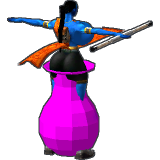
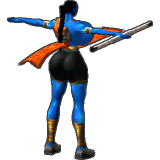
fix: booblord's base's vase is dropped from her mesh (a recipe's new mesh.drop), so her pictures no longer show her standing in a pink vase (Step 4.3 booblord vase)
Her base, town_female_2, carries a magenta vase: LOD-0 group 5 on vase_joint (202 vertices,
231 triangles, row 3's 64x64 texture), at the model's origin round her legs, which every one of
her 81 clips keys at a scale of 0 or 1e-12: it drew only in her bind pose, the Characters tab's
pictures. mesh_edit's drop (MeshSpec.drop, the recipe's mesh.drop) takes a bone subtree's
vertices off LOD 0 with every triangle using one, before every op, refused by name unless they
are whole groups, the LOD's last; the bones stay (clips key bones by index). paint.scaled leaves
out a row only dropped groups drew, so the high looks bake no doubled vase texture. Booblord's
recipe drops vase_joint (and leaves keep and the shade ops' skip of group 5), so do her three
looks from her; her LOD 1 is cut again at her 0.3 share of the smaller LOD 0. One test.

The one byte change, booblord's characters.xbr: tests/goldens/pipelines.json's five booblord
cases (characters.xbr, filelist.txt, ISO) and resources.json's same five, re-recorded by
scripts/record_goldens.py (every other golden and family unchanged); her shipped answers
(shipped.json: her plan on both releases, her four looks' size rows' content sha) by
scripts/record_shipped.py; web/characters' booblord and booblord_high pictures and index.json.
Her four recipes' shas change (481c4cfffa90, da5968c383e1, 856afd8605ef, a5e80bdffdff), so
weapons.json's fit row takes booblord's and variant_grades.json carries each grade, until the
[…]

Changed region(s): [[0.2188, 0.375, 0.625, 1.0]]

diff --git a/src/azurkit/tools/characters/mesh_edit.py b/src/azurkit/tools/characters/mesh_edit.py
@@ -248,6 +248,14 @@ same ops (Step MK.3a: ``azurik-mod model rest``, a shape slider's ends).
   A sum of field ops can fold, so the Jacobian's determinant (analytic)
   must stay above 0 at every vertex a field op moves and at the centroid
   of every triangle it moves.  Nothing is clamped (D23).
+- **The drop** (Step 4.3, ``mesh.drop``: booblord's vase): the bone
+  subtrees whose vertices (by their heaviest weight) leave LOD 0 with
+  every triangle that uses one, before every op (:func:`_drop`).  They
+  must be whole groups, the LOD's last, so no other group's number or
+  vertex moves; the bones stay (a clip keys a bone by its index).  Her
+  base's vase, group 5 on ``vase_joint``, which every clip she plays keys
+  at a scale of 0 or 1e-12, drew only in her bind pose (the Characters
+  tab's pictures), round her legs.
 - **The checks on the result**: vertices vanilla keeps together (a
   bit-identical position) stay within :data:`COPIES`; LOD 1+ isn't
   edited (a build cuts a body's own LODs anew from its edited LOD 0 at
@@ -885,6 +893,8 @@ class MeshSpec:
     """How the glTF is read: ``positions`` (Step 2.142, the same topology),
     or (Step 2.154) ``topology`` or ``weights``
     (:mod:`azurik_mod.assets.gltf_import`)."""
+    drop: tuple[str, ...] = ()
+    """The bone subtrees whose vertices leave LOD 0 (the module docstring's drop, :func:`_drop`)."""
 
 
 SIZES = {RoundOp: "round", ScaleOp: "scale"}
@@ -993,6 +1003,8 @@ class MeshPlan:
     """Each ``late`` scale's move by vertex (group, index) (Step 2.187):
     in the written positions, which W29 takes back off to place its jiggle
     bones (:func:`~azurik_mod.assets.jiggle.rig`'s ``late``)."""
+    dropped: tuple[int, ...] = ()
+    """The LOD-0 groups the drop took off (Step 4.3: :func:`_drop`), which :func:`assemble` leaves out."""
 
 
 # --------------------------------------------------------------------------- the body
@@ -5098,6 +5110,43 @@ def _atlas(mesh: _Mesh, spec: MeshSpec, uvs: dict[int, tuple[float, float]], isl
 
 
 # --------------------------------------------------------------------------- the plan and the write
+def _drop(mesh: _Mesh, spec: MeshSpec, base: list[Vec]) -> tuple[_Mesh, list[Vec]]:
+    """``mesh`` and ``base`` without the vertices of :attr:`MeshSpec.drop`'s
+    bone subtrees (by their heaviest weight) and the triangles that use
+    them (the module docstring's drop).  :class:`ValueError` names a bone
+    the body lacks, a drop that takes no vertex, a group it takes only part
+    of and one that isn't among the LOD's last."""
+    if not spec.drop:
+        return mesh, base
+    for name in spec.drop:
+        if name not in mesh.names:
+            raise ValueError(f"mesh.drop: {mesh.body} has no bone {name!r}")
+    bones, named = _subtree(mesh, set(spec.drop)), ", ".join(spec.drop)
+    gone = {k for k, b in enumerate(mesh.heaviest) if b in bones}
+    groups = sorted({mesh.ids[k][0] for k in gone})
+    if not groups:
+        raise ValueError(f"mesh.drop: no vertex of {mesh.body} weighs most on {named}")
+    for g in groups:
+        if any(mesh.ids[k][0] == g and k not in gone for k in range(len(mesh.ids))):
+            raise ValueError(f"mesh.drop: {mesh.body} group {g} holds vertices off {named} too: a drop takes "
+                             "whole groups")
+    order = [g.index for g in mesh.groups]
+    if order[len(order) - len(groups):] != groups:
+        raise ValueError(f"mesh.drop: {mesh.body} group {groups[0]} isn't among its last LOD-0 groups: a drop "
+                         "takes them off the end, so no other group's number moves")
+    kept = [k for k in range(len(mesh.ids)) if k not in gone]
+    new = {k: i for i, k in enumerate(kept)}
+    tris = [t for t in range(len(mesh.triangles)) if all(v in new for v in mesh.triangles[t])]
+
+    def each(values: tuple) -> tuple:
+        return tuple(values[k] for k in kept)
+    return replace(mesh, groups=tuple(g for g in mesh.groups if g.index not in groups), ids=each(mesh.ids),
+                   keys=each(mesh.keys), positions=each(mesh.positions), normals=each(mesh.normals),
+                   uvs=each(mesh.uvs), skins=each(mesh.skins), heaviest=each(mesh.heaviest),
+                   triangles=tuple(tuple(new[v] for v in mesh.triangles[t]) for t in tris),
+                   corners=tuple(mesh.corners[t] for t in tris) if mesh.corners else ()), [base[k] for k in kept]
+
+
 def _base(mesh: _Mesh, spec: MeshSpec, base_dir: Path | None) -> tuple[list[Vec], GltfEdit | None]:
     """The positions the ops act on: vanilla's, the glTF's where it moves
     them (its file resolved against ``base_dir`` and checked)."""
@@ -5199,6 +5248,7 @@ def _prepare(characters_xbr: bytes, body: str, spec: MeshSpec, base_dir: Path | 
     else:
         mesh = _read_mesh(characters_xbr, body)
         base, edit = _base(mesh, spec, base_dir)
+    mesh, base = _drop(mesh, spec, base)
     count = len(mesh.ids)
     mesh, base, smooth = _subdivide(mesh, spec, base)
     before = len(mesh.ids)
@@ -5547,14 +5597,21 @@ def plan(characters_xbr: bytes, body: str, spec: MeshSpec, base_dir: Path | None
                  and _dot(_face(mesh.positions, t), _face(after, t)) < 0)
     largest = max((_norm(_sub(after[k], mesh.positions[k])) for k in moved), default=0.0)
     added = len(mesh.ids) - vanilla_count
+    dropped = ()
+    if spec.drop:   # the groups the drop took off (the LOD's last: _drop)
+        held = {g.index for g in mesh.groups}
+        stored = len(imported.asset.lods[0].groups) if imported is not None else \
+            sum(1 for g in mesh_groups(characters_xbr, body) if g.lod == 0)
+        dropped = tuple(g for g in range(stored) if g not in held)
     every = ()
-    whole = bool(added) or imported is not None or bool(remapped) or bool(bound)
+    whole = bool(added) or imported is not None or bool(remapped) or bool(bound) or bool(dropped)
     if whole:
         every = tuple(by_index.get(k) or (mesh.normals[k] if k < vanilla_count else
                                           _f32(_unit(mesh.normals[k]) or (0.0, 0.0, 1.0))) for k in range(len(mesh.ids)))
     return MeshPlan(mesh.body, len(mesh.positions), at, normals, largest, len(spec.ops), placed, turned,
                     det_min, edit, tucked, added, mesh if whole else None, tuple(after) if whole else (), every,
-                    imported, rounded, remapped, bound, repaint, {mesh.ids[k]: d for k, d in sorted(late.items())})
+                    imported, rounded, remapped, bound, repaint, {mesh.ids[k]: d for k, d in sorted(late.items())},
+                    dropped)
 
 
 def _vanilla_here(before: bytes, plan: MeshPlan, vanilla_xbr: bytes) -> None:
@@ -5611,6 +5668,7 @@ def assemble(characters: bytes, plan: MeshPlan, vanilla_xbr: bytes):
     for t in mesh.triangles:
         g = mesh.ids[t[0]][0]
         groups[g].triangles.append(tuple(local[v] for v in t))
+    asset.lods[0].groups = [grp for g, grp in groups.items() if g not in plan.dropped]   # the drop's (Step 4.3)
     return asset
 
 

diff --git a/tests/test_characters.py b/tests/test_characters.py
@@ -485,6 +485,36 @@ def test_a_variants_shapes_and_options_are_refused_by_name_where_it_cant_take_th
         characters.variant({"species": "beamlord", "mode": {"own": "garret4", "garret4": "own"}[own]}, None)
 
 
+def test_a_mesh_drop_takes_its_bones_last_groups_off_lod_0_and_refuses_any_other_by_name(usa_iso):
+    """``mesh.drop`` (Step 4.3: booblord's vase) takes the LOD-0 vertices of
+    its bones' subtrees off a body with every triangle that uses one:
+    town_female_2's vase, her last group (5) on ``vase_joint``, 202 vertices
+    and 231 triangles, while every other group's vertices and triangles and
+    every bone stay as they were. A bone the body lacks, one whose vertices
+    share a group with others (her head and hair) and one no vertex weighs most on
+    are refused by name, nothing written."""
+    from azurkit.tools.characters import mesh_edit
+
+    with iso.Reader(usa_iso) as r:
+        data = r.read(CHARACTERS)
+    body = "townspeople/female_2"
+    before = bc.read_asset(data, body)
+    plan = mesh_edit.plan(data, body, mesh_edit.MeshSpec(drop=("vase_joint",)))
+    written = bytearray(data)
+    mesh_edit.write(written, plan, data)
+    after = bc.read_asset(bytes(written), body)
+    assert plan.dropped == (5,) and (len(before.lods[0].groups[5].vertices), len(before.lods[0].groups[5].triangles)) \
+        == (202, 231)
+    assert [(g.vertices, g.triangles) for g in after.lods[0].groups] == [
+        (g.vertices, g.triangles) for g in before.lods[0].groups[:5]]
+    assert after.bone_names == before.bone_names
+    for drop, why in (("nope", "townspeople/female_2 has no bone 'nope'"),
+                      ("head", "townspeople/female_2 group 0 holds vertices off head too: a drop takes whole groups"),
+                      ("joint77", "no vertex of townspeople/female_2 weighs most on joint77")):
+        with pytest.raises(ValueError, match=f"^mesh\\.drop: {re.escape(why)}"):
+            mesh_edit.plan(data, body, mesh_edit.MeshSpec(drop=(drop,)))
+
+
 # --- Azurik-Custom-Content's Install and Update (Step 4.3d) ----------------------------------------------------
 
 

diff --git a/src/azurkit/tools/characters/_player_variants.py b/src/azurkit/tools/characters/_player_variants.py
@@ -55,7 +55,8 @@ variant as it measures any build.
   Step 2.142: ``gltf`` {``file``, ``sha256``, ``import``: ``positions``
   by default, or ``topology`` or ``weights``, Step 2.154}, an edited glTF of the
   base's body, user recipes only; ``keep``, bones whose vertices the ops
-  leave; ``ops``, deform ops: :mod:`azurik_mod.assets.mesh_edit`) and
+  leave; ``drop``, bones whose vertices leave the mesh, Step 4.3; ``ops``,
+  deform ops: :mod:`azurik_mod.assets.mesh_edit`) and
   ``arms`` ({``out_deg``}: both ``*_arm_1`` turned out in every clip the
   body plays but the recipe's own, W28, Step 2.143: :func:`restyled`)
   and ``jiggle`` (leaf bones on springs baked into every clip but its
@@ -2155,7 +2156,7 @@ def _mesh(where: str, mesh, builtin: bool) -> MeshSpec:
     """The recipe's ``mesh`` (W24, Step 2.142), checked with no game data:
     the body's bones, the glTF and the folds are the build's to check."""
     where = f"{where}: mesh"
-    _keys(where, mesh, (), ("gltf", "keep", "ops"))
+    _keys(where, mesh, (), ("gltf", "keep", "ops", "drop"))
     gltf = None
     if "gltf" in mesh:
         if builtin:
@@ -2175,10 +2176,11 @@ def _mesh(where: str, mesh, builtin: bool) -> MeshSpec:
     parsed = []
     for i, op in enumerate(ops):
         parsed.append(_mesh_op(f"{where}.ops[{i}]", op))
-    if gltf is None and not parsed:
-        raise ValueError(f"{where}: neither a gltf nor ops")
+    drop = _names(f"{where}.drop", mesh.get("drop", []))
+    if gltf is None and not parsed and not drop:
+        raise ValueError(f"{where}: neither a gltf, ops nor a drop")
     return MeshSpec(gltf, _names(f"{where}.keep", mesh.get("keep", [])), tuple(parsed),
-                    mesh["gltf"].get("import", "positions") if gltf else "positions")
+                    mesh["gltf"].get("import", "positions") if gltf else "positions", drop)
 
 
 _OP_KEYS = {

diff --git a/src/azurkit/tools/characters/paint.py b/src/azurkit/tools/characters/paint.py
@@ -692,18 +692,21 @@ def bakes(vanilla_xbr: bytes, body: str, plan, specs: tuple[TextureSpec, ...]) -
     return out
 
 
-def scaled(vanilla_xbr: bytes, body: str, specs: tuple[TextureSpec, ...], scale: int) -> tuple[TextureSpec, ...]:
+def scaled(vanilla_xbr: bytes, body: str, specs: tuple[TextureSpec, ...], scale: int,
+           dropped: tuple[int, ...] = ()) -> tuple[TextureSpec, ...]:
     """``specs`` with every material row of ``body`` at ``scale`` times its
     width and height (a recipe's ``texture_scale``, Step 2.177, D680): each
     spec's row at its size times it, then each other row from its vanilla
     texture at that texture's size times it in its format, with no ops (the
-    game's look sampled anew through the mesh).  :class:`ValueError` names
-    a row whose vanilla texture isn't square or whose size passes 4,096."""
+    game's look sampled anew through the mesh), but a row only ``dropped``
+    groups drew (a mesh's drop, Step 4.3: no triangle left to sample it
+    through).  :class:`ValueError` names a row whose vanilla texture isn't
+    square or whose size passes 4,096."""
     out = [replace(s, size=s.size * scale) for s in specs]
     vtoc, painted = parse_toc(vanilla_xbr), {s.row for s in specs}
     names = {v: k for k, v in textures.FORMATS.items()}
-    for row, (gshd, _) in sorted(_rows(vanilla_xbr, body).items()):
-        if row in painted:
+    for row, (gshd, groups) in sorted(_rows(vanilla_xbr, body).items()):
+        if row in painted or set(groups) <= set(dropped):
             continue
         old = struct.unpack_from("<I", vanilla_xbr, render.material_row(vanilla_xbr, vtoc, gshd, row) + 100)[0]
         t = vtoc[old]

diff --git a/src/azurkit/tools/characters/_player_character.py b/src/azurkit/tools/characters/_player_character.py
@@ -8836,7 +8836,8 @@ def _variant_body(current: bytes, stored: bytes, body: str, variant
     at = placing.result()[0] if placing is not None else None
     baking, specs = None, variant.textures
     if variant.texture_scale != 1:   # Step 2.177: every row at that many times its size
-        specs = paint.scaled(stored, body, specs, variant.texture_scale)
+        specs = paint.scaled(stored, body, specs, variant.texture_scale,
+                             reshaped.dropped if reshaped is not None else ())
     if specs or (reshaped is not None and reshaped.repaint):   # W30's bakes, in children while W29 rigs
         baking = pool.later(paint.bakes, stored, body, reshaped, specs)
     if variant.jiggle is not None:   # W29: the jiggle bones, before any reader

diff --git a/docs/devlog/fixed/4.3-booblord-vase.md b/docs/devlog/fixed/4.3-booblord-vase.md
@@ -1,0 +1,1 @@
+- Booblord's pictures in the Characters tab no longer show her standing in a pink vase: the vase her base townswoman carries, which no clip of hers ever drew, is gone from all four of her looks' models (a recipe's new `mesh.drop`), with its vertices and triangles in both her levels of detail and, in her high-detail looks, its doubled texture (Step 4.3 booblord vase).
